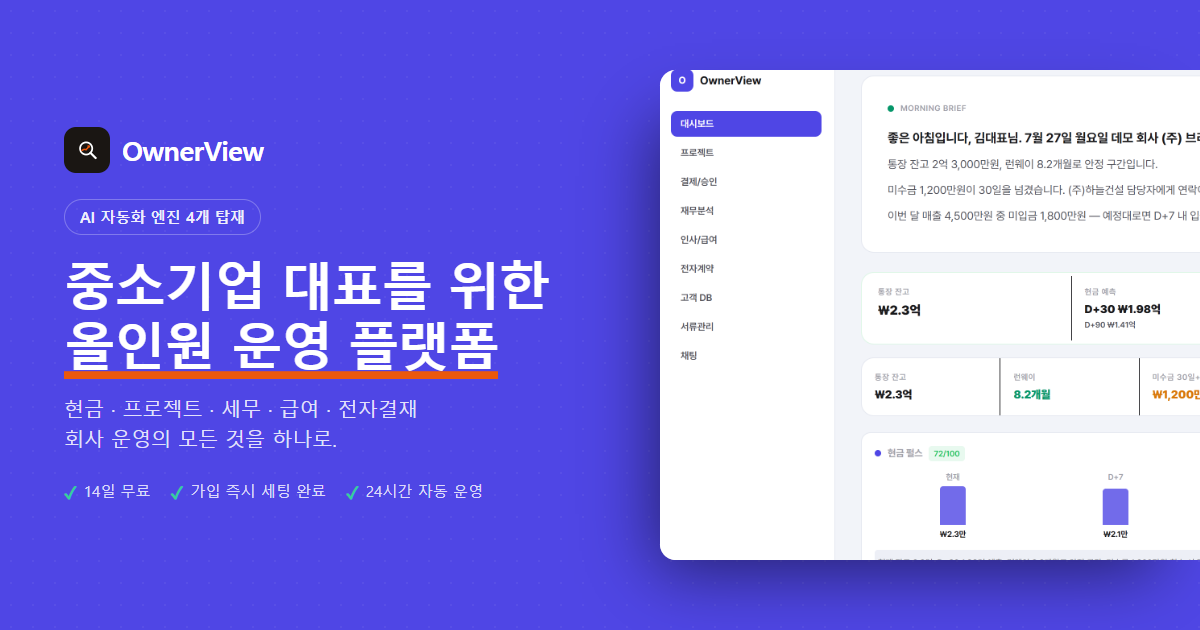
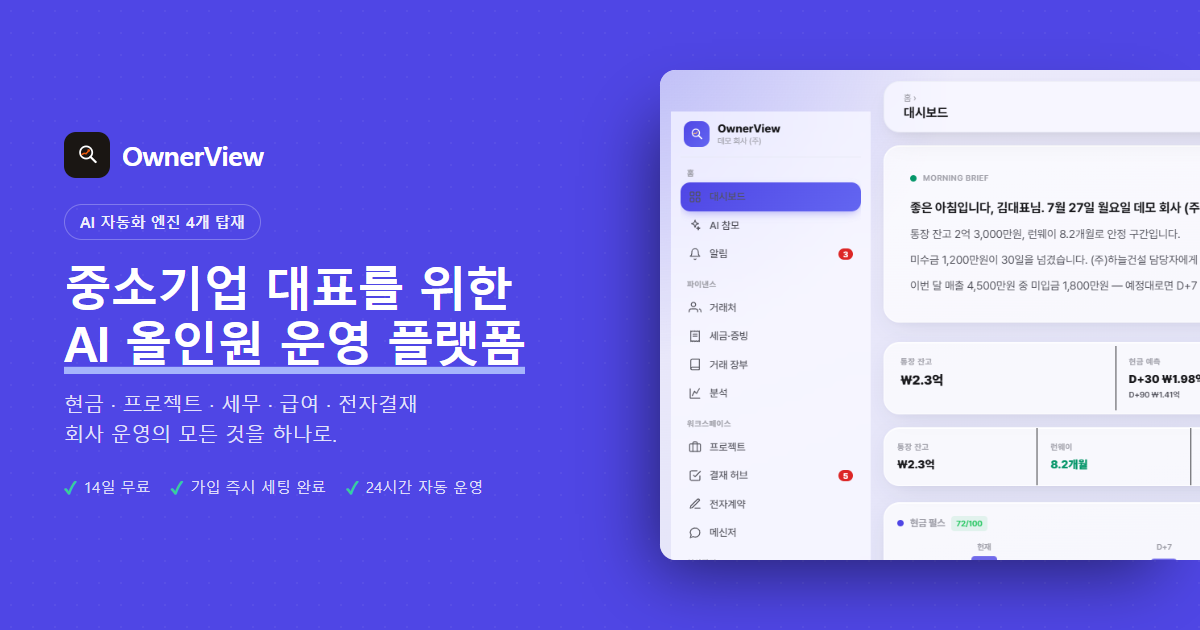
fix(landing/seo): OG 카드·title 을 새 히어로 문구와 실물 화면에 맞춰 갱신
- OG 이미지: 구버전 평면 데모 → 업그레이드된 실제 오너뷰 대시보드로 교체
- 헤드라인 "AI 올인원 운영 플랫폼" 로 통일(랜딩 h1 · title · OG 3곳 일치)
- OG 밑줄 오렌지 → 인디고 계열 (오렌지는 위험/주의 전용 규칙)

diff --git a/src/app/page.tsx b/src/app/page.tsx
@@ -7,7 +7,7 @@ import LandingPage from "@/components/landing/landing-page";
 import { FAQS, PLANS, FOOTER } from "@/components/landing/content";
 
 const SITE = "https://www.owner-view.com";
-const TITLE = "중소기업 대표를 위한 올인원 운영 플랫폼 | 오너뷰";
+const TITLE = "중소기업 대표를 위한 AI 올인원 운영 플랫폼 | 오너뷰";
 const DESC =
   "현금·프로젝트·세무·급여·전자결재까지, 회사 운영의 모든 것을 하나로. AI 자동화 엔진 4개가 대표가 하던 반복 업무를 대신 처리합니다. 14일 무료.";
 // 카카오톡·페북·슬랙 공유 카드용 — 기존 512x512 로고는 잘리거나 썸네일로 축소됐다.
